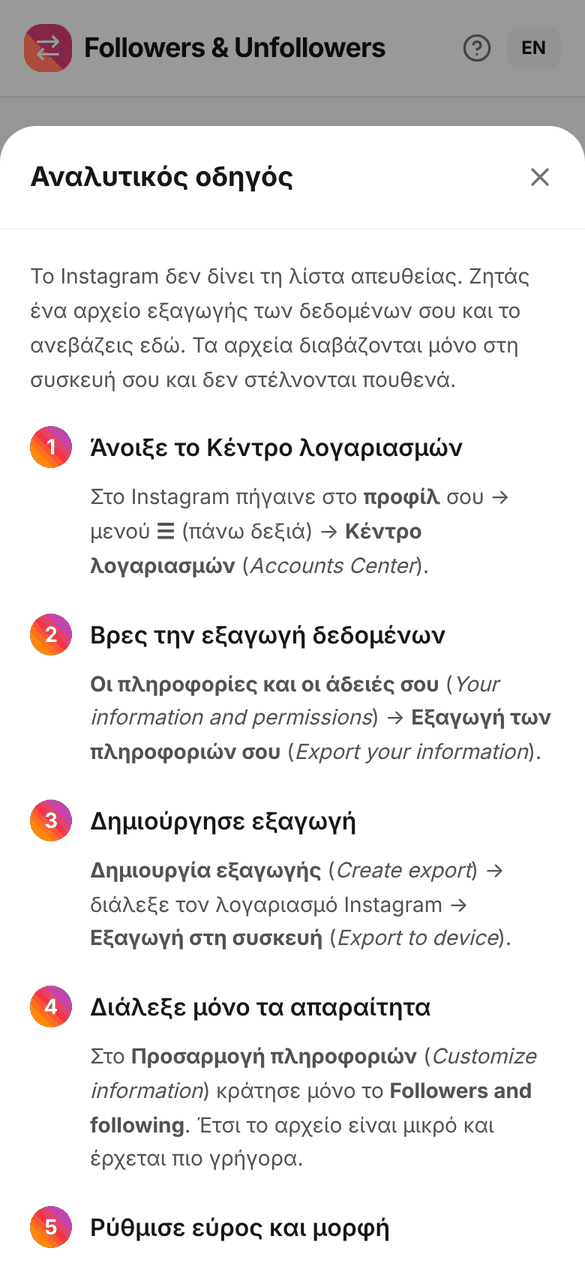
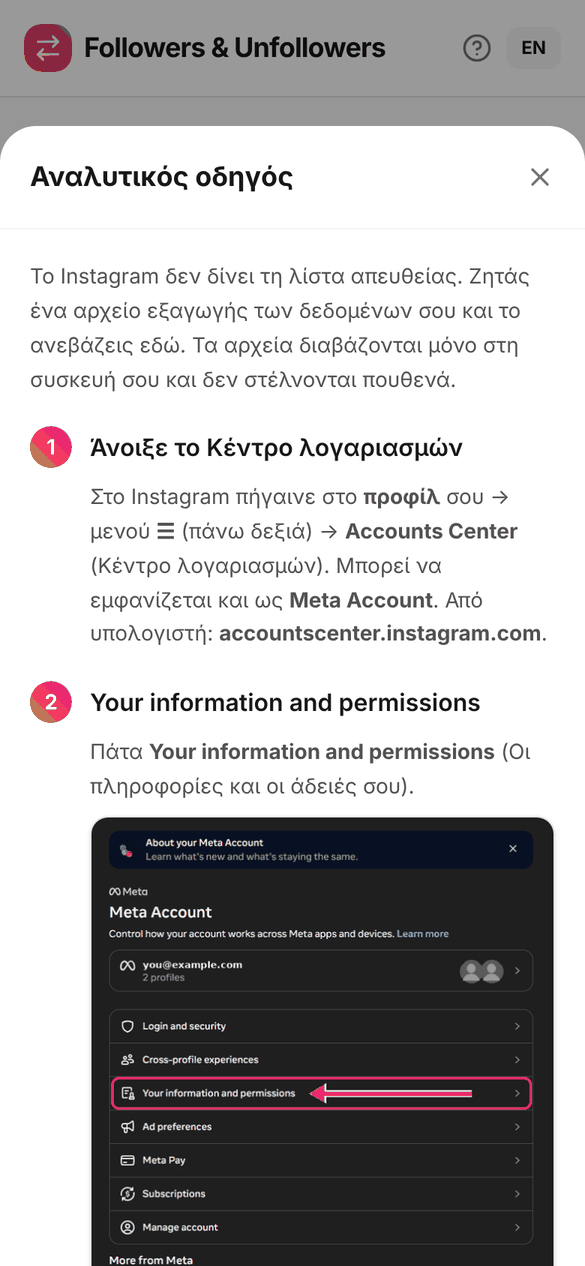
v1.1.4
- Greek tab names: Θαυμαστές, Κοινοί
- Short explanation under the tabs for the selected category
- Updated README screenshots

diff --git a/src/App.tsx b/src/App.tsx
@@ -43,8 +43,11 @@ const translations = {
     users: 'χρήστες',
     uploadPlaceholder: 'Κάνε κλικ ή σύρε το .zip ή τα αρχεία εδώ',
     notFollowingBack: 'Δεν σε ακολουθούν',
-    fans: 'Fans',
-    mutuals: 'Mutuals',
+    fans: 'Θαυμαστές',
+    mutuals: 'Κοινοί',
+    descNotFollowingBack: 'Τους ακολουθείς, αλλά δεν σε ακολουθούν πίσω.',
+    descFans: 'Σε ακολουθούν, αλλά δεν τους ακολουθείς.',
+    descMutuals: 'Ακολουθείτε ο ένας τον άλλον.',
     searchPlaceholder: 'Αναζήτηση χρήστη...',
     noResults: 'Δεν βρέθηκαν αποτελέσματα',
     waitingFiles: 'Περιμένω τα αρχεία σου...',
@@ -68,6 +71,9 @@ const translations = {
     notFollowingBack: 'Not following back',
     fans: 'Fans',
     mutuals: 'Mutuals',
+    descNotFollowingBack: "You follow them, but they don't follow you back.",
+    descFans: "They follow you, but you don't follow them.",
+    descMutuals: 'You follow each other.',
     searchPlaceholder: 'Search user...',
     noResults: 'No results found',
     waitingFiles: 'Waiting for your files...',
@@ -503,6 +509,11 @@ export default function App() {
                 count={results.mutuals.length}
               />
             </div>
+
+            {/* Short explanation of the active tab */}
+            <p className="-mt-3 px-1 text-sm text-neutral-500">
+              {activeTab === 'notFollowingBack' ? t.descNotFollowingBack : activeTab === 'fans' ? t.descFans : t.descMutuals}
+            </p>
 
             {/* Search */}
             <div className="relative">

diff --git a/README.md b/README.md
@@ -19,8 +19,8 @@
 ## Τι δείχνει
 
 - **Δεν σε ακολουθούν**: τους ακολουθείς, αλλά δεν σε ακολουθούν.
-- **Fans**: σε ακολουθούν, αλλά δεν τους ακολουθείς.
-- **Mutuals**: ακολουθείτε ο ένας τον άλλον.
+- **Θαυμαστές**: σε ακολουθούν, αλλά δεν τους ακολουθείς.
+- **Κοινοί**: ακολουθείτε ο ένας τον άλλον.
 
 Υπάρχει αναζήτηση χρήστη και επιλογή γλώσσας (Ελληνικά / English).
 
